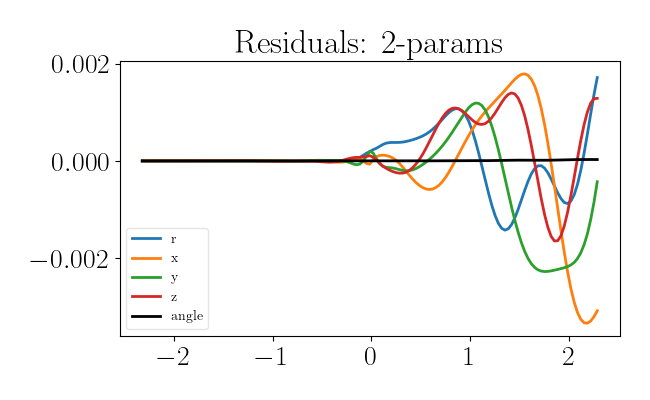
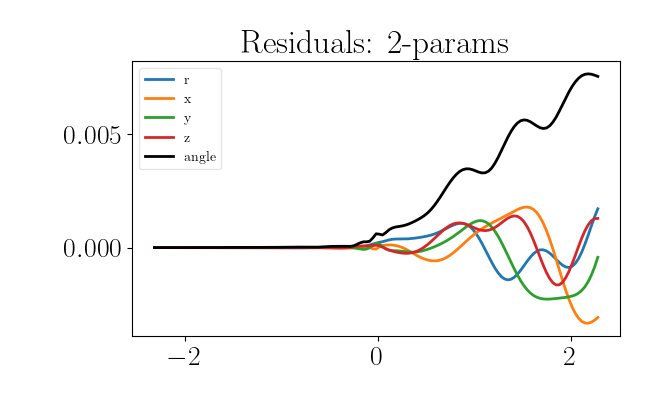
Another typo

diff --git a/orientation/generate/display.py b/orientation/generate/display.py
@@ -82,8 +82,10 @@ if os.path.exists(f"{file_name}-resolved-perfect.dat"):
     perfect_quats = quaternion.as_quat_array(np.array([perfect_rs, perfect_xs, perfect_ys, perfect_zs]).transpose().reshape(-1))
     angles = []
     for (q, q_star) in zip(quats, perfect_quats):
-        print(2 * np.arccos(min(1, abs((q * q_star.conj()).real))))
-        angles.append(2 * np.arccos(min(1, abs((q * q_star.conj()).real)))**2)
+        angle = 2 * np.arccos(min(1, abs((q * q_star.conj()).real)))
+        print(angle)
+        angles.append(angle)
+    print(angles)
     plt.figure()
     plt.title(f"Residuals: {file_name}")
     plt.plot(time, np.array(rs) - np.array(perfect_rs), label="r")

diff --git a/orientation/fit_resolved/fit.py b/orientation/fit_resolved/fit.py
@@ -30,7 +30,7 @@ except:
 logging.basicConfig(level=logging.INFO)
 
 PLOT_POSES = True
-NUM_MINIMIZE_POINTS_PER = 1 # Used to be 4
+NUM_MINIMIZE_POINTS_PER = 4 # Used to be 4
 NUM_L3_MINIMIZATIONS = 1# Changed to 1 to decrease time.
 DISTANCE_RATIO_CUTS = [
     [2.0, None],
